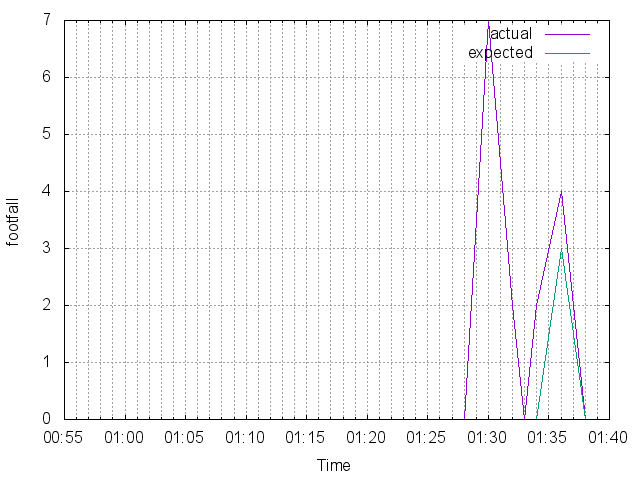
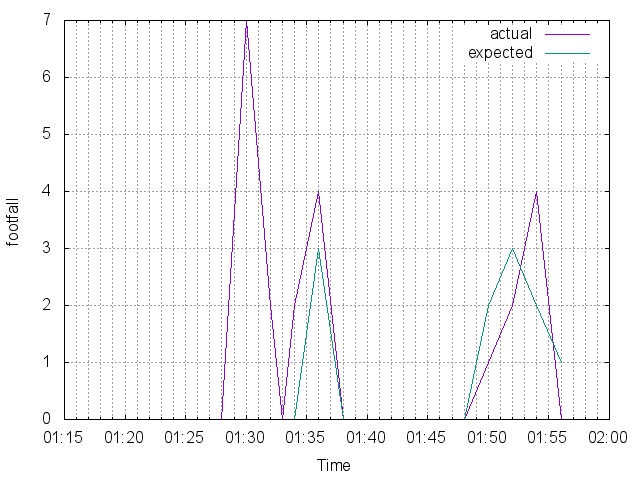
asd

diff --git a/backend/api/controllers/DeviceController.js b/backend/api/controllers/DeviceController.js
@@ -8,24 +8,24 @@
 module.exports = {
   init: function (req, res) {
     var now=Math.floor(Date.now()/1000);
-    ML.plot(req.props.hostel,function(){
     ML.info(req.props.hostel,now,function(expected,attended){
+      ML.renderplot(req.props.hostel,function(){
       require('fs').readFile("ml/"+req.props.hostel+".png",function(err,image_data){
-        var image = "";
-        if(err == null){
-          image = image_data.toString('base64');
-        }      
-        res.send({
-        'success':true,
-        'hostel': req.props.hostel,
-        'device': req.props.device,
-        'image': image,
-        'expected':expected,
-        'attended':attended,
-        'meal': ML.meal(now).meal
-        });
-      });
-    });
+          var image = "";
+          console.log("ml/"+req.props.hostel+".png");
+          if(err == null){
+            image = image_data.toString('base64');
+          }else console.log(err);
+          res.send({
+          'success':true,
+          'hostel': req.props.hostel,
+          'device': req.props.device,
+          'image': image,
+          'expected':expected,
+          'attended':attended,
+          'meal': ML.meal(now).meal
+          });
+    });});
     });
   },
   login: function (req,res){

diff --git a/backend/api/services/ML.js b/backend/api/services/ML.js
@@ -110,6 +110,30 @@ module.exports = {
      
       // console.log("graph size:",count);
       //TODO: plot it!
+    });
+  },
+   renderplot: function(hostel,next){
+    var now=Math.floor(Date.now()/1000);
+    var num=50;
+    var start=mealInfo(now).start-120*(num-1);
+    // Roll.create({user:req.props.user.id,device:req.props.device,hostel:req.props.hostel,success:true},
+    var graph={};
+    for(var i=0;i<num;i++)
+      graph[start+i*120]=({period:(start+i*120),expected:0,attended:0});
+    History.find({hostel:hostel}).where({start:{'>=':start}}).exec(function(err,hists){
+      if(err)
+        console.log("ML.plot: DB error",err);
+      for(i in hists)
+      {
+        if(!graph[hists[i].start])
+          graph[hists[i].start]=({period:hists[i].start,expected:0,attended:0});
+        graph[hists[i].start].expected=hists[i].expected;
+        graph[hists[i].start].attended=hists[i].attended;
+       }
+      // var count=0;
+     
+      // console.log("graph size:",count);
+      //TODO: plot it!
       
       var img1={},img2={};
       for(start in graph){
